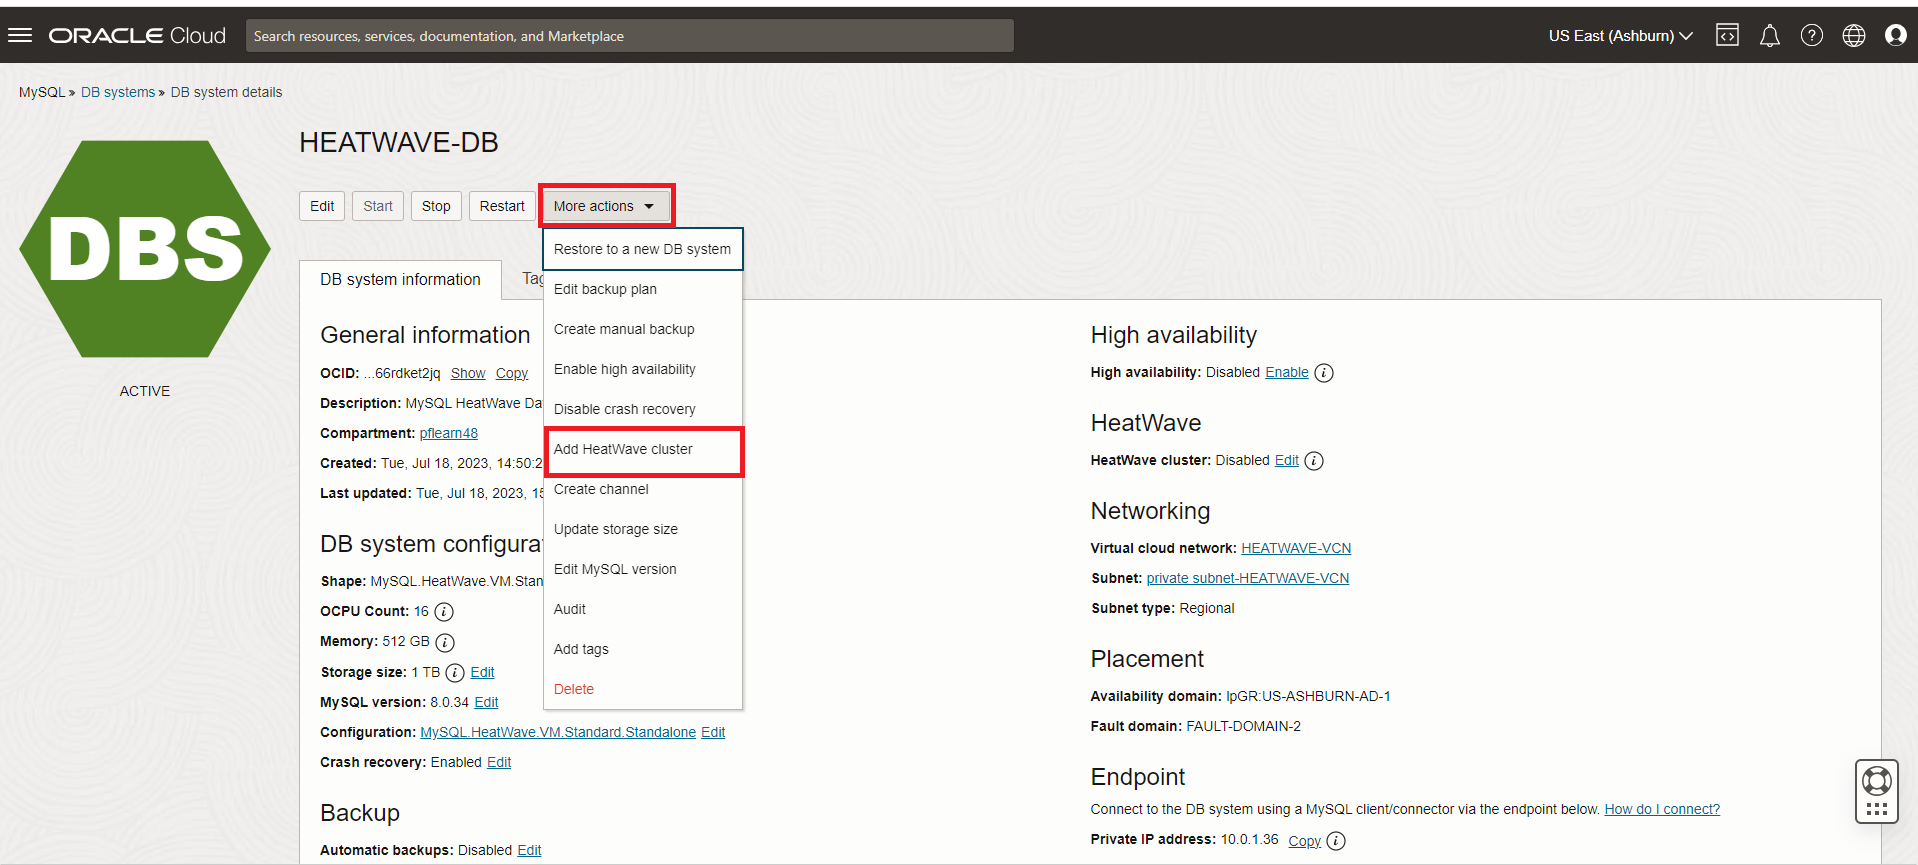
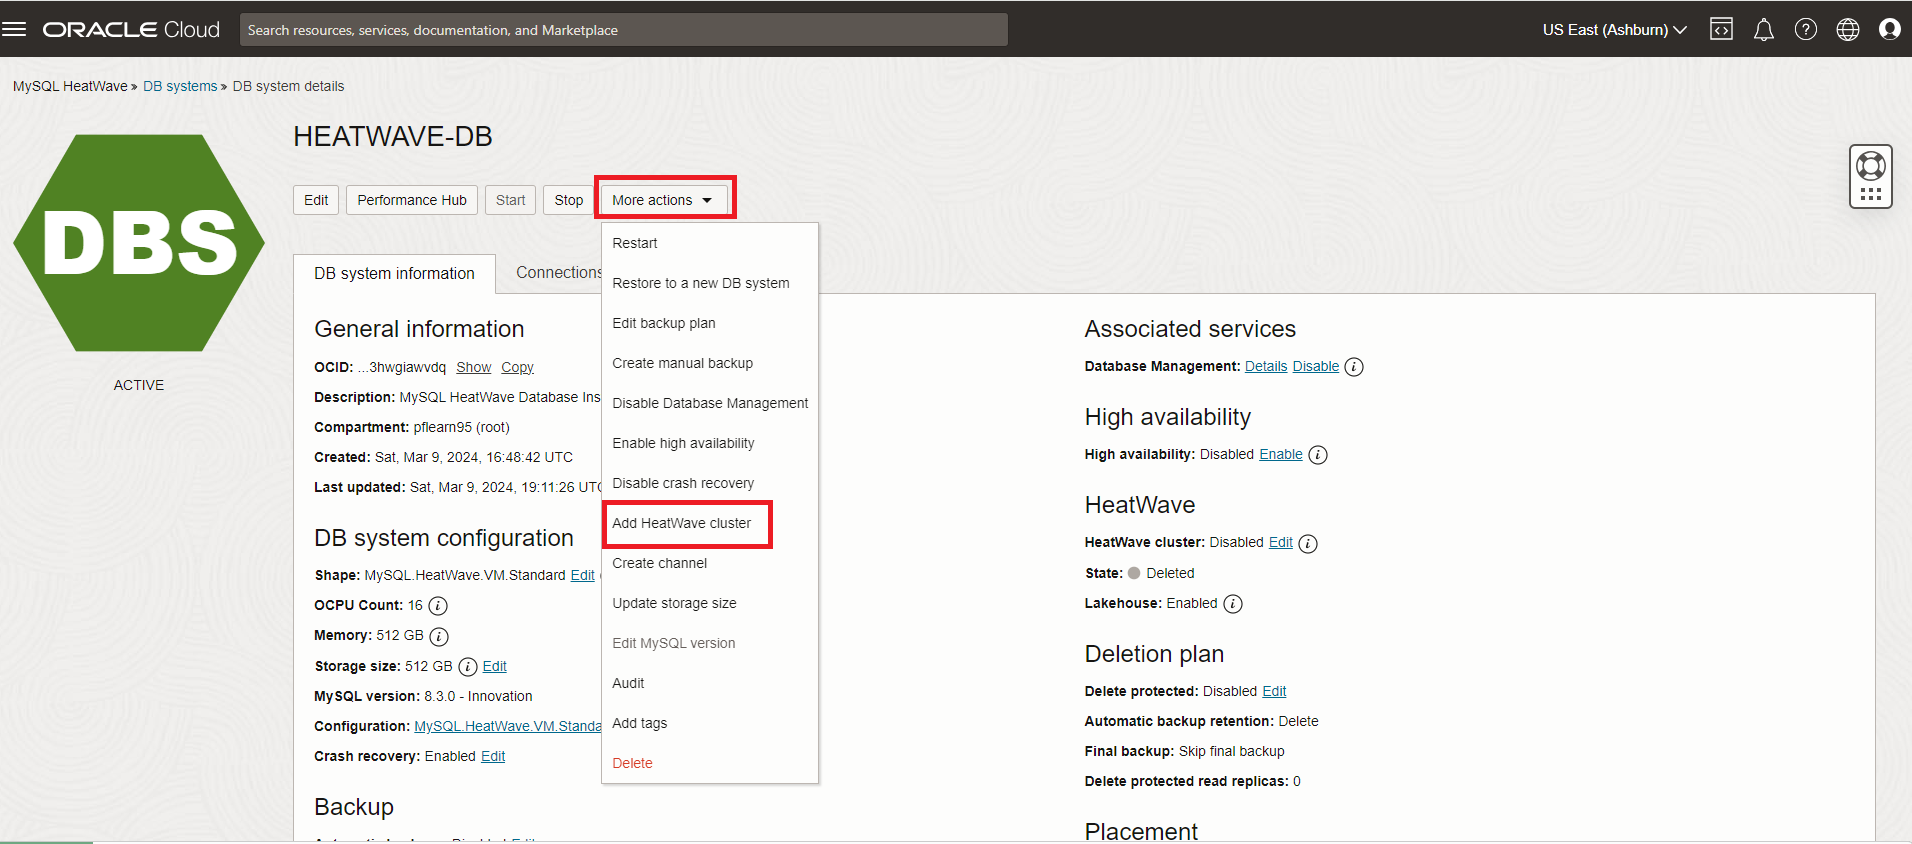
updated
updated

diff --git a/load-heatwave/load-heatwave.md b/load-heatwave/load-heatwave.md
@@ -24,7 +24,6 @@ In this lab, you will be guided through the following task:
 - An Oracle Trial or Paid Cloud Account
 - Some Experience with MySQL Shell
 
-
 ## Task 1: Add a HeatWave Cluster to MDS-HW MySQL Database System
 
 1. Open the navigation menu  
@@ -37,8 +36,12 @@ In this lab, you will be guided through the following task:
 3. In the list of DB Systems, click the **HEATWAVE-DB** system. click **More Action ->  Add HeatWave Cluster**.
     ![mysql more actions add cluster](./images/mysql-more-actions-add-cluster.png " mysql more actions add cluster")
 
-    - a. Enable the MySQL HeatWave LakeHouse checkbox
-    - b. Set Node Count to 2 for this Lab and Click Add HeatWave Cluster to create the HeatWave cluster
+    >**Note** If the **HeatWave Cluster** is already enabled then skip to **Task 2**
+
+    - a. Enable the **MySQL HeatWave LakeHouse** checkbox
+    - b. Set **Node Count** to 1 
+    - c. Enable the **MySQL HeatWave Lakehouse** checkbox
+    - d. Click the **Add HeatWave Cluster** button to create the HeatWave cluster
 
         ![mysql apply cluster](./images/mysql-apply-cluster.png " mysql apply cluster")
 

diff --git a/connect-dbs-bastion/connect-dbs-bastion.md b/connect-dbs-bastion/connect-dbs-bastion.md
@@ -31,11 +31,11 @@ The new Bastion Service will allow you to create a SSH Tunnel to your MySQL DB S
 
 1. Go to Navigation Menu > Identity Security > Bastion
 
-    ![new bastion](./images/bastion-01.png "new bastion ")
+    ![bastion menu](./images/bastion-menu.png " bastion menu")
 
 2. Click Create Bastion
 
-    ![bastion intro](./images/bastion-02.png "bastion intro ")
+    ![bastion menu create](./images/bastion-menu-create.png "bastion menu create ")
 
 3. On Create bastion, complete the following fields:
 
@@ -61,13 +61,13 @@ The new Bastion Service will allow you to create a SSH Tunnel to your MySQL DB S
 
     Click `0.0.0.0/0(New)`
 
-     ![bastion show](./images/bastion-03.png "bastion show ")
+     ![bastion create page](./images/bastion-create.png "bastion create page ")
 
 4. Click `Create Bastion` button
 
     When completed your screen should look like this:
 
-    ![bastion complete](./images/bastion-04.png "bastion complete ")
+    ![bastion list](./images/bastion-menu-list.png "bastion list ")
 
 ## Task 2: Create Bastion Session
 

diff --git a/create-compute/create-compute.md b/create-compute/create-compute.md
@@ -166,7 +166,7 @@ You will need a compute Instance to connect to your brand new MySQL database.
 
 2. Enter the username **opc** and the Public **IP Address**.
 
-    Note: The **HEATWAVE-Client**  shows the  Public IP Address as mentioned on TASK 5: #1
+    Note: The **HEATWAVE-Client**  shows the  Public IP Address on the Compute Detail page
 
     (Example: **ssh -i ~/.ssh/id_rsa opc@132.145.170...**) 
 
